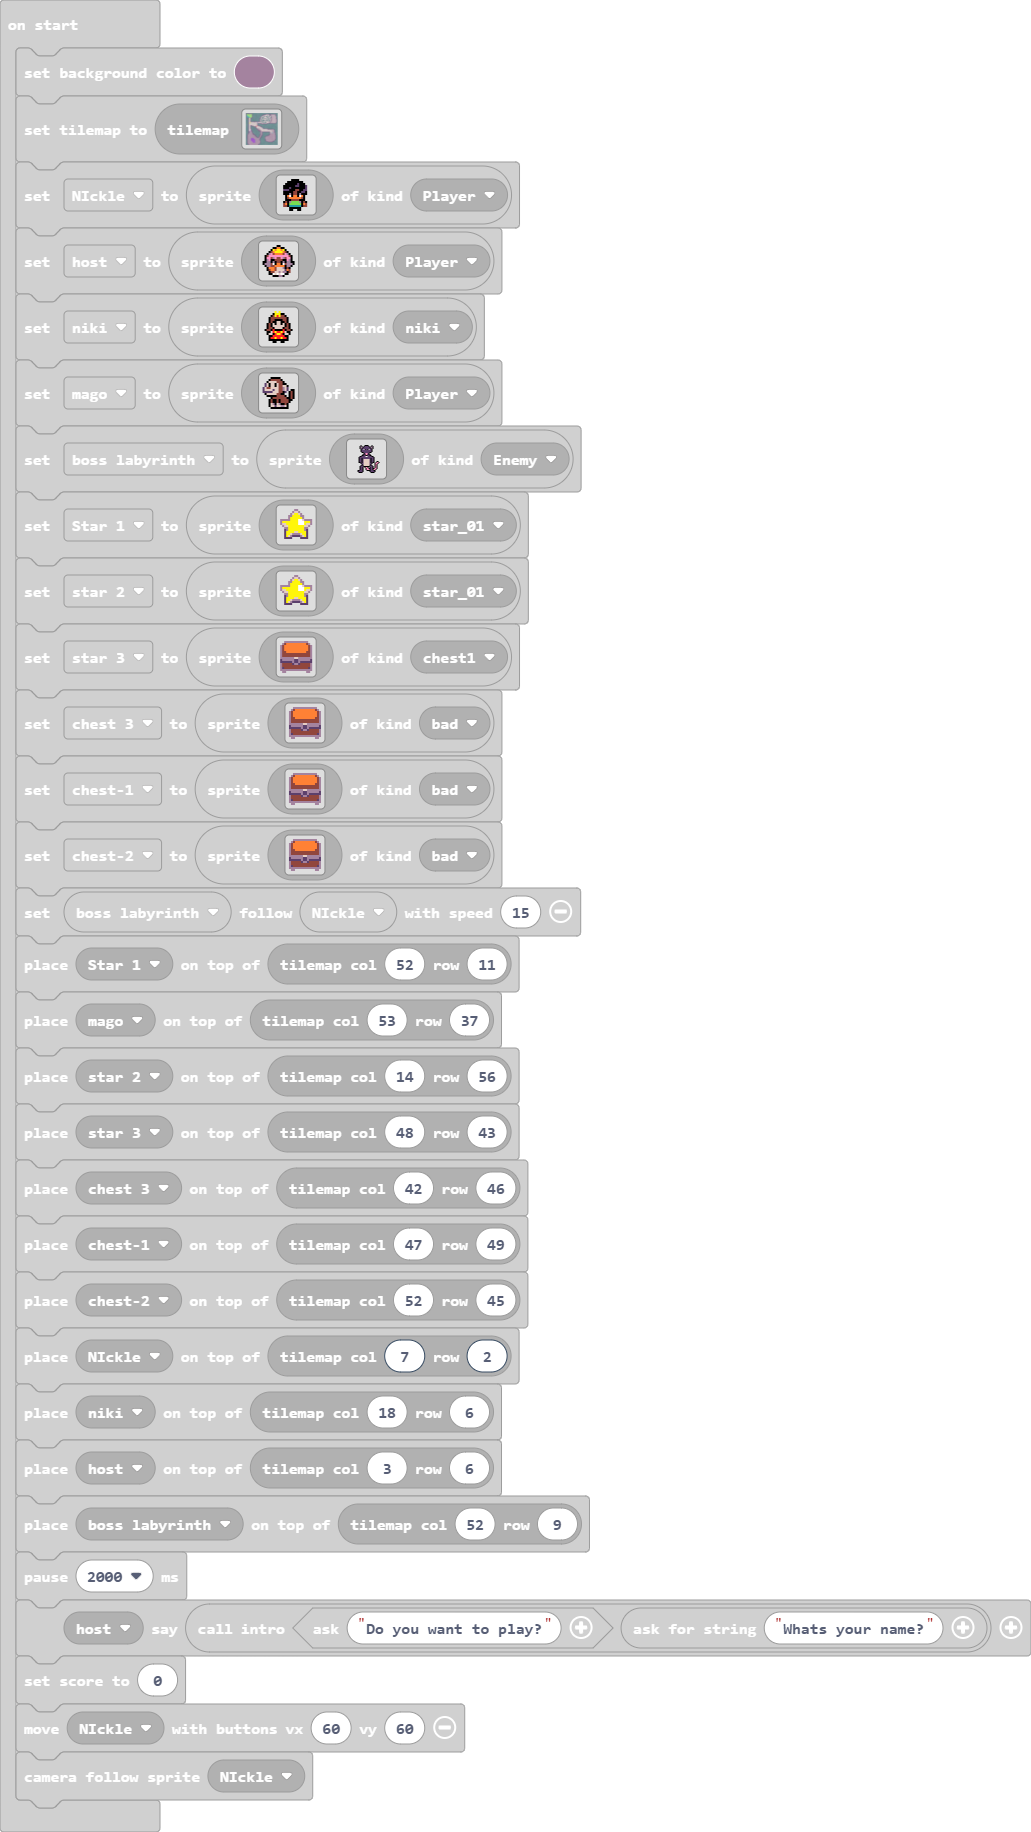
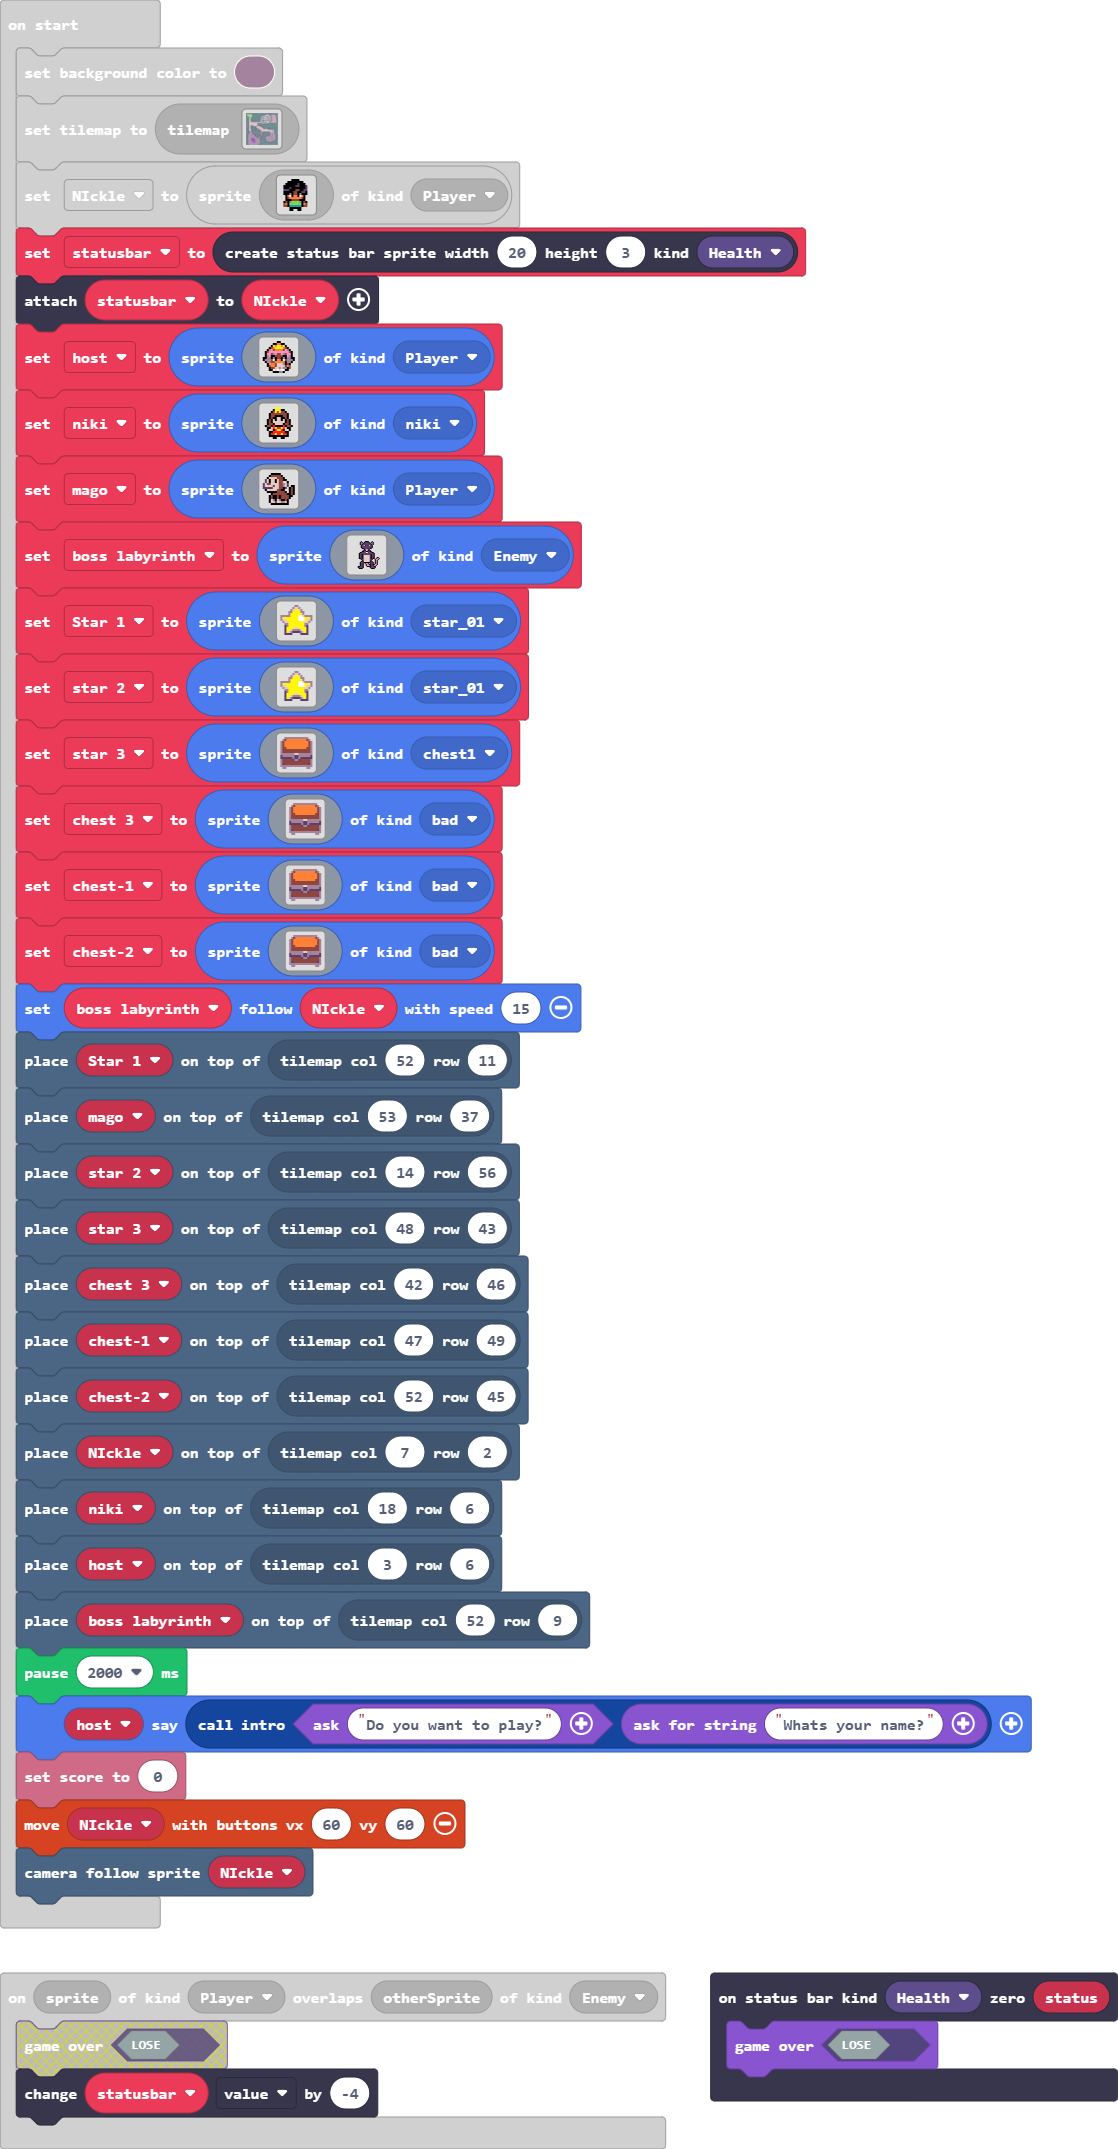
Update pxt.json, main.blocks, main.ts

diff --git a/main.ts b/main.ts
@@ -172,6 +172,9 @@ sprites.onOverlap(SpriteKind.Player, SpriteKind.chest1, function (sprite, otherS
     pause(500)
     tiles.placeOnTile(sss, tiles.getTileLocation(48, 43))
 })
+statusbars.onZero(StatusBarKind.Health, function (status) {
+    game.gameOver(false)
+})
 sprites.onOverlap(SpriteKind.Player, SpriteKind.bad, function (sprite, otherSprite) {
     game.splash("You chose the wrong chest!")
     pause(1000)
@@ -310,11 +313,12 @@ scene.onOverlapTile(SpriteKind.Player, sprites.dungeon.collectibleInsignia, func
     magohabla = true
 })
 sprites.onOverlap(SpriteKind.Player, SpriteKind.Enemy, function (sprite, otherSprite) {
-    game.gameOver(false)
+    statusbar.value += -4
 })
 let magohabla = false
 let sss: Sprite = null
 let niki: Sprite = null
+let statusbar: StatusBarSprite = null
 let NIckle: Sprite = null
 scene.setBackgroundColor(11)
 tiles.setCurrentTilemap(tilemap`level0`)
@@ -336,6 +340,8 @@ NIckle = sprites.create(img`
     . . . f f f f f f . . . . 
     . . . f f . . f f . . . . 
     `, SpriteKind.Player)
+statusbar = statusbars.create(20, 3, StatusBarKind.Health)
+statusbar.attachToSprite(NIckle)
 let host = sprites.create(img`
     . . . . . . . f f . . . . . . . 
     . . . . . f f 4 4 f f . . . . . 
